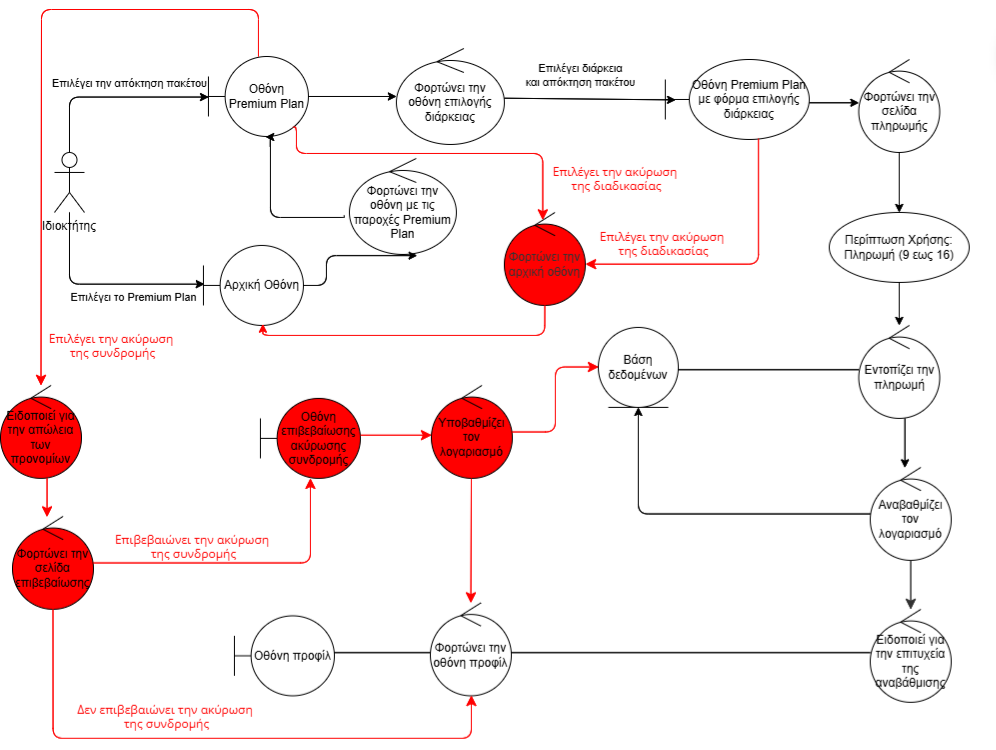
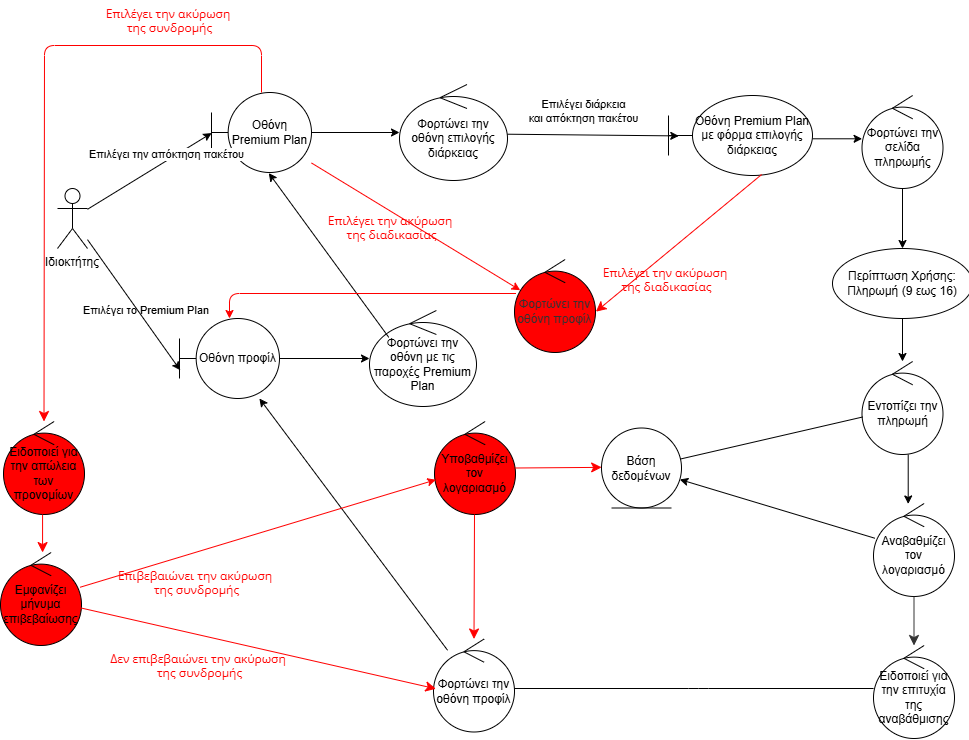
UC premium plan -> uc, seq and robustness

diff --git a/v0.3/UC_Premium/use_case.md b/v0.3/UC_Premium/use_case.md
@@ -15,7 +15,7 @@
 Εναλλακτικές Ροές
 1. Λάθος επιλογή (από βήμα 3 και 5 της βασικής)
 4.1.1 Ο ιδιοκτήτης αποφασίζει ότι δεν θέλει να αγοράσει το premium plan και επιλέγει την ακύρωση
-4.1.1 Το σύστημα μεταφέρει τον ιδιοκτήτη πίσω στην αρχική σελίδα
+4.1.1 Το σύστημα μεταφέρει τον ιδιοκτήτη στην προηγούμενη σελίδα
 
 2. Ακύρωση συνδρομής (από βήμα 3 της βασικής)
 4.2.1 Ο ιδιοκτήτης επιλέγει να ακυρώσει το premium plan
